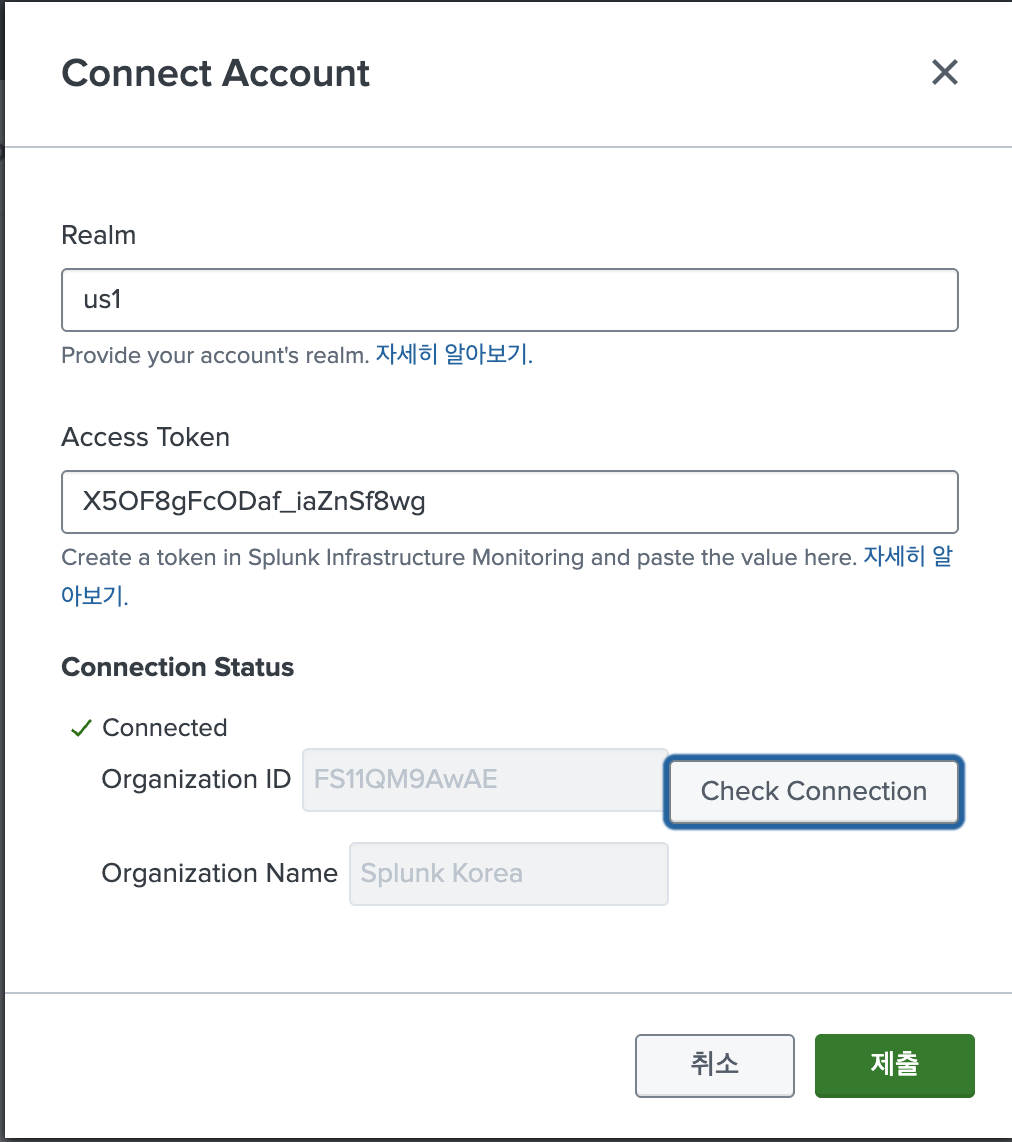
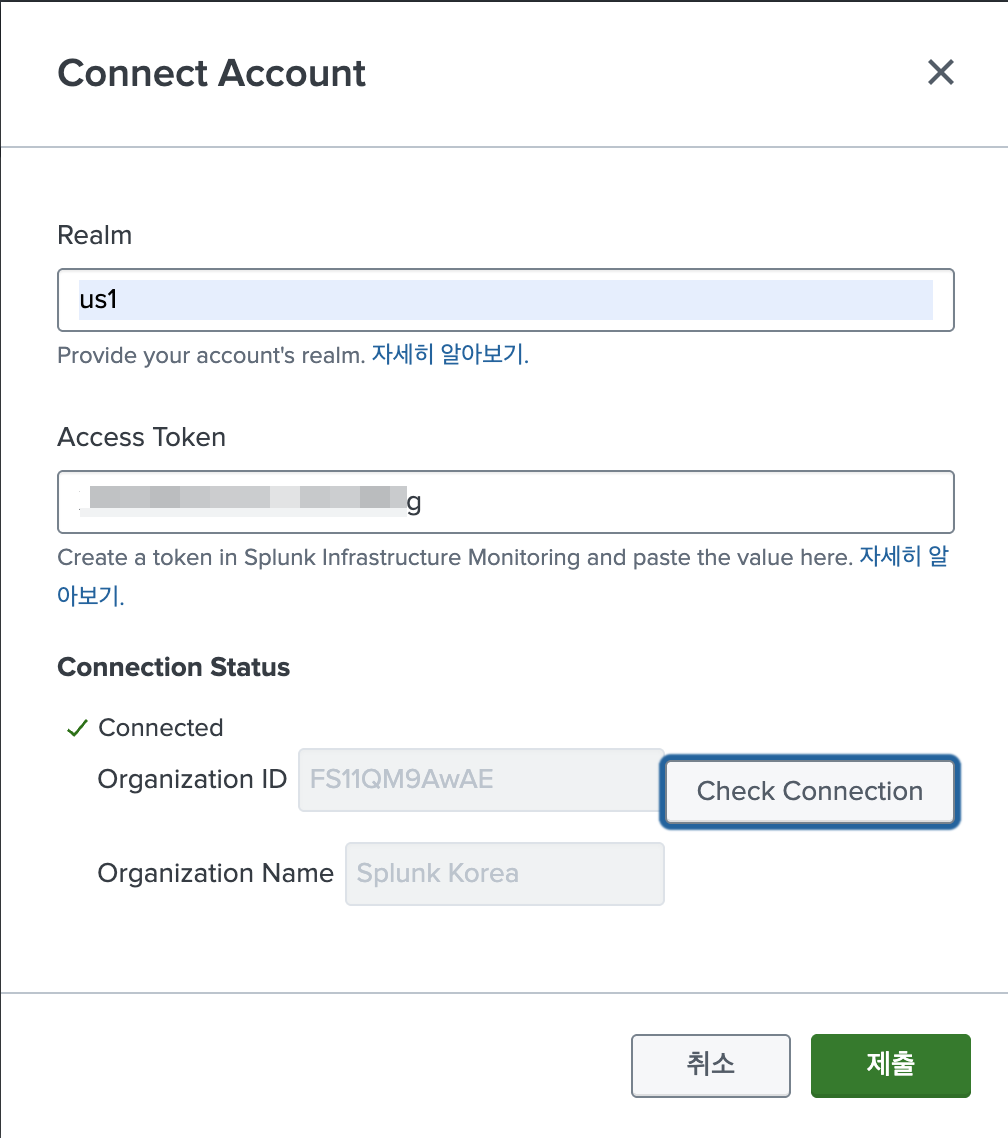
14

diff --git a/src/1-ninja-kr/1-14-SIMCommand/1-14-index.md b/src/1-ninja-kr/1-14-SIMCommand/1-14-index.md
@@ -12,12 +12,19 @@ Splunk Cloud UI에서, 앱 > Splunk Infrastructure Monitoring Add-on
 
 ![](../../images/1-ninja-kr/1-14-Infrastructure-Monitoring-Add-on.png)
 
+설치 후, 앱으로 이동합니다.
+
 Splunk Infrastructure Monitoring Add-on > 설정 > Connect an Account
 
 
 ![](../../images/1-ninja-kr/1-14-Infrastructure-Monitoring-Add-on-connect.png)
 
+아래와 같이 realm, Access Token을 입력합니다.
+그리고 Check Connection 을 선택해서 정상적으로 연결되는지 확인합니다.
+
 ![](../../images/1-ninja-kr/1-14-Infrastructure-Monitoring-Add-on-connect2.png)
+
+제출버튼 클릭
 
 ## 14-2. Splunk Platform 에서 메트릭 검색
 Search & Report 앱에서 쿼리 수행
@@ -36,7 +43,7 @@ B = data('container.cpu.time').mean(over='1m').count(by=['k8s.cluster.name']).pu
 ```
 ![](../../images/1-ninja-kr/1-14-simcommand.png)
 
-
+이후 다양한 SPL command 사용이 가능하여 별도 대시보드 제작 가능
 
 
 ## 관련 Documents
